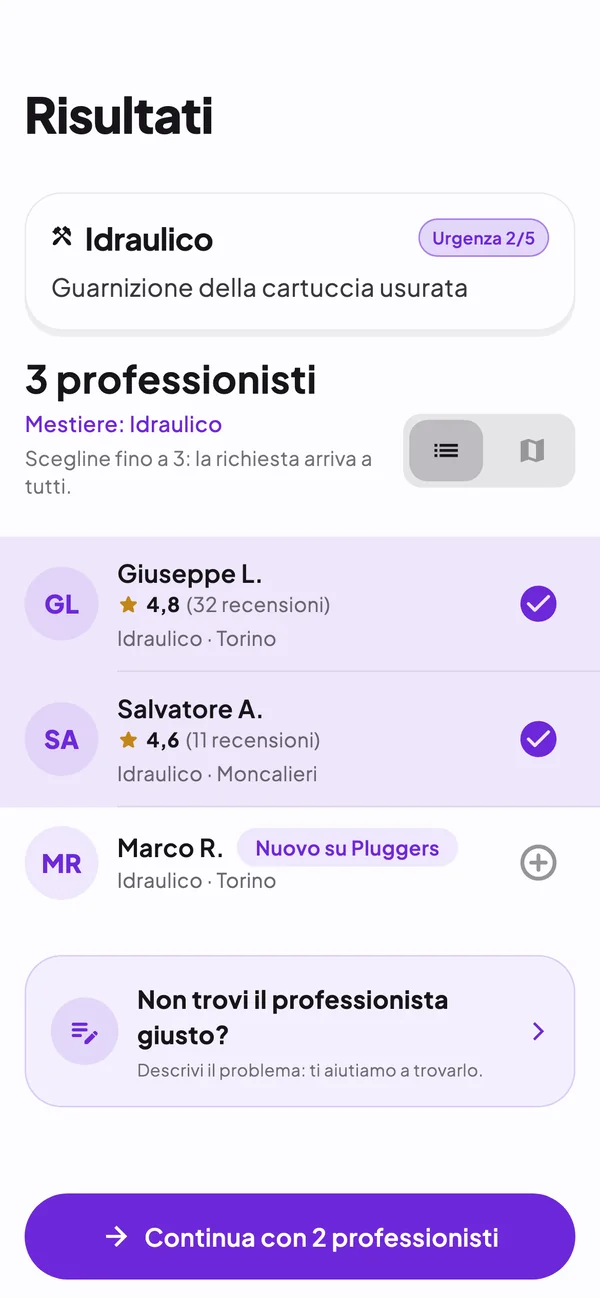
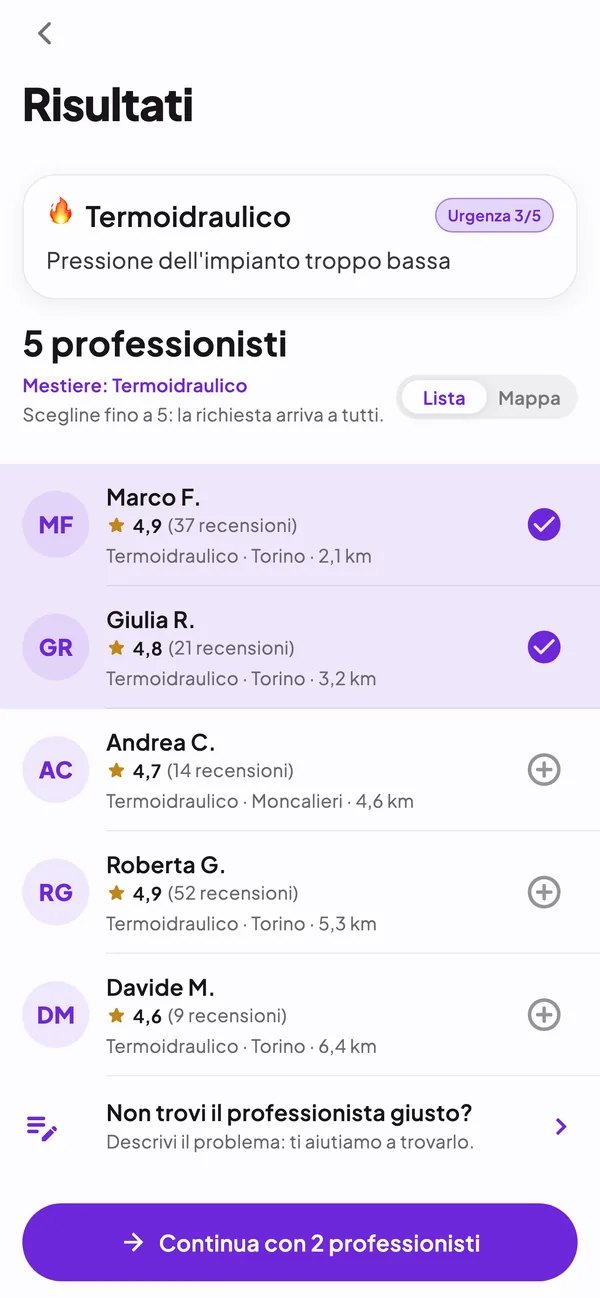
Schermate nuove nelle guide e testi allineati all'app (#72)
Sostituite le 3 schermate della home e le 14 delle guide con quelle
aggiornate (caldaia, cinque professionisti, novembre, quattro voci nel
preventivo, agenda a settimana, documento d'identità).

Aggiornati testi e alt che descrivevano le immagini vecchie. Il raggio
d'azione passa da 1-100 a 1-200 km, come nell'app e nel database.

diff --git a/app/(site)/clienti/page.tsx b/app/(site)/clienti/page.tsx
@@ -28,43 +28,43 @@ export const metadata: Metadata = pageMetadata({
 const STEPS: GuideStep[] = [
   {
     id: "racconta", short: "Il problema", src: `${G}/01.webp`,
-    alt: "Schermata iniziale: campo «Di cosa hai bisogno?» con la descrizione di un rubinetto che perde, una foto allegata e il bottone «Trova professionisti».",
+    alt: "Schermata iniziale: campo «Di cosa hai bisogno?» con la descrizione di una caldaia che non parte, una foto allegata e il bottone «Trova professionisti».",
     title: "Scrivi cosa succede e fai una foto",
-    text: "Scrivilo come lo diresti a un amico: «il rubinetto della cucina perde dalla base». Non serve sapere chi chiamare.",
+    text: "Scrivilo come lo diresti a un amico: «da stamattina la caldaia non parte e i termosifoni sono freddi». Non serve sapere chi chiamare.",
     points: ["Scrivi nel campo «Di cosa hai bisogno?»", "Aggiungi una foto con la fotocamera", "Tocca «Trova professionisti»"],
     tip: "Fotografa il guasto da vicino e poi da un passo indietro: così si capisce anche dove si trova.",
   },
   {
     id: "domande", short: "Le domande", src: `${G}/02.webp`,
-    alt: "Schermata «Capiamo il problema»: la domanda «Da dove esce l'acqua?» con tre risposte da toccare, «Altro» e «Non lo so».",
+    alt: "Schermata «Capiamo il problema»: la domanda «Sul display della caldaia vedi un codice di errore o una spia accesa?» con tre risposte da toccare, «Altro» e «Non lo so».",
     title: "Rispondi a due o tre domande",
     text: "L'intelligenza artificiale chiede quello che le serve per capire il guasto. Le risposte sono già scritte, basta toccare quella giusta.",
     points: ["Tocca la risposta che corrisponde a quello che vedi", "Se non sei sicuro, scegli «Non lo so»"],
   },
   {
     id: "diagnosi", short: "Il riepilogo", src: `${G}/03.webp`,
-    alt: "Schermata «Cosa abbiamo capito»: chi serve, Idraulico, urgenza 2 su 5, la spiegazione dell'intelligenza artificiale e le cause più probabili.",
+    alt: "Schermata «Cosa abbiamo capito»: chi serve, Termoidraulico, urgenza 3 su 5, la spiegazione dell'intelligenza artificiale e le cause più probabili.",
     title: "Controlla cosa ha capito Pluggers",
     text: "Prima di cercare vedi il riepilogo: quale professionista serve, quanto è urgente e le cause più probabili.",
     points: ["Il mestiere, per esempio idraulico", "L'urgenza, da 1 a 5", "Se il riepilogo è sbagliato, tocca «Non è questo il problema» e correggi"],
   },
   {
     id: "scegli", short: "I professionisti", src: `${G}/04.webp`,
-    alt: "Schermata «Risultati»: tre idraulici con valutazione, numero di recensioni e zona, due selezionati, e il bottone «Continua con 2 professionisti».",
+    alt: "Schermata «Risultati»: cinque termoidraulici con valutazione, numero di recensioni e zona, due selezionati, e il bottone «Continua con 2 professionisti».",
     title: "Scegli fino a cinque professionisti",
     text: "Vedi chi fa quel mestiere vicino a te, con le recensioni dei clienti per cui ha già lavorato. La richiesta arriva a tutti quelli che scegli.",
     points: ["Nome, valutazione e numero di recensioni", "La zona in cui lavora", "Puoi guardarli anche sulla mappa"],
   },
   {
     id: "giorno", short: "Il giorno", src: `${G}/05.webp`,
-    alt: "Schermata «Prenota»: il calendario di ottobre con i giorni disponibili cerchiati in viola e il bottone «Richiedi stima».",
+    alt: "Schermata «Prenota»: il calendario di novembre con i giorni disponibili cerchiati in viola e il bottone «Invia la richiesta».",
     title: "Scegli il giorno",
     text: "Seleziona uno dei giorni cerchiati in viola: sono quelli disponibili. Il professionista ti proporrà un orario in chat, che potrai valutare prima di confermare l'appuntamento.",
-    points: ["Tocca il giorno che preferisci", "Tocca «Richiedi stima»"],
+    points: ["Tocca il giorno che preferisci", "Tocca «Invia la richiesta»"],
   },
   {
     id: "stima", short: "La stima", src: `${G}/06.webp`,
-    alt: "Chat con il professionista: la foto del rubinetto, un messaggio e la scheda «Stima» con il lavoro previsto, i materiali e i bottoni «Accetta» e «Rifiuta».",
+    alt: "Chat con il professionista: il tuo messaggio, la risposta del professionista e la scheda «Stima» di circa € 120 con il lavoro previsto, i materiali e i bottoni «Accetta» e «Rifiuta».",
     title: "Ricevi la stima in chat",
     text: "Il professionista legge la scheda del problema preparata dall'intelligenza artificiale. Poi ti scrive quanto può costare il lavoro. Se chiede un Costo Chiamata, cioè la cifra per il sopralluogo, lo trovi all'interno della stima.",
     points: ["La stima è indicativa: il prezzo esatto è nel preventivo, dopo il sopralluogo", "Tocca «Accetta» e l'appuntamento è confermato: le richieste agli altri professionisti si chiudono", "Tocca «Rifiuta» e non devi fare niente"],
@@ -72,7 +72,7 @@ const STEPS: GuideStep[] = [
   },
   {
     id: "preventivo", short: "Il preventivo", src: `${G}/07.webp`,
-    alt: "Schermata «Preventivo»: tre voci con il loro prezzo, imponibile, IVA 22% e totale, e i bottoni «Apri» e «Scarica» per il PDF.",
+    alt: "Schermata «Documento»: il preventivo con quattro voci e il loro prezzo, imponibile, IVA 22% e totale, e i bottoni «Apri» e «Scarica» per il PDF.",
     title: "Dopo il sopralluogo, il preventivo",
     text: "Il professionista ti manda il preventivo in chat. Ogni voce ha il suo prezzo, poi trovi imponibile, IVA e totale.",
     points: ["Toccalo per vedere il dettaglio e aprire o scaricare il PDF", "Tocca «Accetta» o «Rifiuta» sulla scheda in chat", "Se durante il lavoro il prezzo cambia, ricevi un preventivo aggiornato con motivo e foto. Decidi tu se accettarlo"],
@@ -80,7 +80,7 @@ const STEPS: GuideStep[] = [
   },
   {
     id: "intervento", short: "L'intervento", src: `${G}/08.webp`,
-    alt: "Schermata «Dettaglio intervento»: il professionista, lo stato con l'invito a inquadrare il QR, quando e dove, il problema, la stima e il bottone «Scansiona QR».",
+    alt: "Schermata «Dettaglio intervento»: il professionista, lo stato con l'invito a inquadrare il QR, quando e dove, il problema, il Costo Chiamata, il preventivo e il bottone «Scansiona QR».",
     title: "Il giorno dell'intervento",
     text: "Nella scheda dell'appuntamento trovi data, indirizzo, problema e prezzo concordato. Il QR si usa due volte: quando il lavoro inizia e quando finisce.",
     points: ["All'inizio tocca «Scansiona QR» e inquadra il codice sul telefono del professionista", "A lavoro finito inquadra il QR di fine lavoro", "Poi puoi lasciare una recensione"],

diff --git a/app/(site)/professionisti/page.tsx b/app/(site)/professionisti/page.tsx
@@ -30,7 +30,7 @@ const G = "/guida/professionisti";
 const STEPS: GuideStep[] = [
   {
     id: "mestieri", short: "Mestieri", src: `${G}/01.webp`,
-    alt: "Profilo professionista, passo 1 di 5: «Di cosa ti occupi?» con l'elenco dei mestieri e la descrizione di ciascuno.",
+    alt: "Profilo professionista, passo 1 di 5: «I tuoi mestieri» con l'elenco dei mestieri e la descrizione di ciascuno.",
     title: "Scegli i tuoi mestieri",
     text: "Indica tutti i mestieri che fai. Per ognuno i lavori più comuni sono già selezionati.",
     points: ["Puoi sceglierne più di uno", "Togli i lavori che non fai", "Aggiungi le specializzazioni"],
@@ -38,10 +38,10 @@ const STEPS: GuideStep[] = [
   },
   {
     id: "raggio", short: "Zona", src: `${G}/02.webp`,
-    alt: "Profilo professionista: «Fin dove ti sposti» con il cursore del raggio d'azione a 20 km e la sezione «Dove lavori».",
+    alt: "Profilo professionista: «Fin dove ti sposti» con il cursore del raggio d'azione a 20 km, la sezione «Dove lavori» e «Documento d'identità» con i riquadri per fronte e retro.",
     title: "Decidi fin dove ti sposti",
-    text: "Inserisci l'indirizzo da cui parti e il raggio, da 1 a 100 km. Ti trovano solo i clienti entro quella distanza.",
-    points: ["Il raggio si imposta con il cursore", "Le città in cui lavori, anche più di una", "La descrizione dell'attività e la partita IVA"],
+    text: "Inserisci l'indirizzo da cui parti e il raggio, da 1 a 200 km. Ti trovano solo i clienti entro quella distanza.",
+    points: ["Il raggio si imposta con il cursore", "Le città in cui lavori, anche più di una", "La descrizione dell'attività e la partita IVA", "Il documento d'identità, fronte e retro: serve solo a noi, i clienti non lo vedono"],
   },
   {
     id: "disponibilita", short: "Orari", src: `${G}/03.webp`,
@@ -52,7 +52,7 @@ const STEPS: GuideStep[] = [
   },
   {
     id: "richieste", short: "Richieste", src: `${G}/04.webp`,
-    alt: "Sezione «Richieste»: le schede «Da decidere» e «Da preventivare», i filtri per ordinare e per giorno e tre richieste con il problema, giorno e orario, la distanza e la cifra indicativa.",
+    alt: "Sezione «Richieste»: le schede «Nuove» e «In corso», il bottone «Ordina e filtra» e tre richieste con il problema, il giorno, la distanza, la cifra indicativa e il bottone «Accetta e invia la stima».",
     title: "Ricevi le richieste",
     text: "Le richieste arrivano dai clienti della tua zona che ti hanno scelto. Ognuna ha giorno, mestiere, problema, distanza da te e una cifra di riferimento calcolata dall'app.",
     points: ["Apri quelle che ti interessano", "Rifiuta le altre"],
@@ -68,10 +68,10 @@ const STEPS: GuideStep[] = [
   },
   {
     id: "agenda", short: "Agenda", src: `${G}/06.webp`,
-    alt: "Agenda del professionista: il calendario di ottobre, i prossimi interventi con lo stato e il bottone «Appuntamento cliente esterno».",
+    alt: "Agenda del professionista in vista settimanale, con la scelta tra «Giorno», «Settimana» e «Mese», due interventi dal 5 al 7 novembre e il bottone «Appuntamento cliente esterno».",
     title: "Gli appuntamenti in agenda",
     text: "Gli interventi confermati entrano in agenda da soli. Puoi segnare anche gli appuntamenti dei tuoi clienti di sempre, anche se non ti hanno contattato da Pluggers: così hai tutto in un'unica app.",
-    points: ["Il mese a colpo d'occhio e i prossimi interventi", "Lo stato di ogni appuntamento"],
+    points: ["Giorno, settimana o mese: scegli la vista che ti serve", "Lo stato di ogni appuntamento"],
     tip: "I clienti che non usano Pluggers li aggiungi con «Appuntamento cliente esterno».",
   },
 ];
@@ -82,7 +82,7 @@ const LEDE =
 
 const BENEFITS = [
   { title: "Problema e distanza", text: "Ogni richiesta ha mestiere, scheda del problema e km da te. Se è urgente, lo vedi subito." },
-  { title: "Raggio da 1 a 100 km", text: "Lo imposti dal tuo indirizzo. I clienti fuori dal raggio non ti vedono." },
+  { title: "Raggio da 1 a 200 km", text: "Lo imposti dal tuo indirizzo. I clienti fuori dal raggio non ti vedono." },
   { title: "Prezzi tuoi", text: "Costo Chiamata, stima e preventivo li scrivi tu. L'app ti suggerisce una cifra, puoi cambiarla." },
   GESTIONALE,
 ];

diff --git a/lib/home.ts b/lib/home.ts
@@ -45,19 +45,19 @@ export const HOW = {
       title: "Racconta il problema",
       text: "Scrivi due righe e aggiungi una foto. Se serve, l'intelligenza artificiale ti fa qualche domanda senza termini tecnici.",
       src: "/screens/step-describe.png",
-      alt: "Schermata iniziale dell'app: campo «Di cosa hai bisogno?» con la descrizione di un rubinetto che perde, una foto allegata e il bottone «Trova professionisti».",
+      alt: "Schermata iniziale dell'app: campo «Di cosa hai bisogno?» con la descrizione di una caldaia che non parte, una foto allegata e il bottone «Trova professionisti».",
     },
     {
       title: "Pluggers capisce di che si tratta",
       text: "Riconosce il mestiere, l'urgenza e le cause più probabili, poi mostra i professionisti della tua zona. Scegli chi contattare, fino a cinque, e il giorno tra quelli disponibili: l'orario lo propone il professionista.",
       src: "/screens/step-triage.png",
-      alt: "Schermata «Cosa abbiamo capito»: chi serve (Idraulico), urgenza 2 su 5, cause probabili e bottone «Cerca un professionista».",
+      alt: "Schermata «Cosa abbiamo capito»: chi serve (Termoidraulico), urgenza 3 su 5, cause probabili e bottone «Cerca un professionista».",
     },
     {
       title: "Prima stima, poi preventivo, e il QR a inizio e fine lavoro",
       text: "Il professionista ti manda in chat una stima e, se lo chiede, il Costo Chiamata. Dopo il sopralluogo arriva il preventivo. Il QR si scansiona all'inizio e alla fine del lavoro, poi lasci la recensione.",
       src: "/screens/step-estimate.png",
-      alt: "Chat con il professionista: la foto del guasto, un messaggio e una stima di 85 euro con i bottoni Accetta e Rifiuta.",
+      alt: "Chat con il professionista: il messaggio del cliente, la risposta del professionista e una stima di circa € 120 con i bottoni Accetta e Rifiuta.",
     },
   ],
 };
@@ -89,7 +89,7 @@ export const PROS = {
     },
     {
       title: "Il raggio d'azione lo scegli tu",
-      text: "Da 1 a 100 km dal tuo indirizzo operativo: ti vedono solo i clienti dentro quel raggio.",
+      text: "Da 1 a 200 km dal tuo indirizzo operativo: ti vedono solo i clienti dentro quel raggio.",
     },
     {
       title: "Costo Chiamata e preventivo li decidi tu",

diff --git a/lib/faq.ts b/lib/faq.ts
@@ -110,7 +110,7 @@ const PRO: FaqItem[] = [
   },
   {
     q: "Come scelgo mestieri e zona?",
-    a: "Scegli tutti i mestieri che fai: i clienti ti trovano così. Per ogni mestiere i lavori più comuni sono già selezionati e togli quelli che non fai. Poi indichi l'indirizzo da cui parti e fin dove ti sposti, da 1 a 100 km, e le città in cui accetti interventi. Ricevi solo richieste dentro quella distanza.",
+    a: "Scegli tutti i mestieri che fai: i clienti ti trovano così. Per ogni mestiere i lavori più comuni sono già selezionati e togli quelli che non fai. Poi indichi l'indirizzo da cui parti e fin dove ti sposti, da 1 a 200 km, e le città in cui accetti interventi. Ricevi solo richieste dentro quella distanza.",
   },
   {
     q: "Come ricevo le richieste?",

diff --git a/lib/trades.ts b/lib/trades.ts
@@ -8,7 +8,7 @@
  * trade, urgency 1–5 and probable causes, and may be wrong; at urgency 5 for
  * gas, sparks, burning smell, smoke or water on electrics it shows safety
  * instructions, and the app always offers "Chiama il 112"; professionals pick a
- * radius of 1–100 km and are listed nearest first; up to three per request, the
+ * radius of 1–200 km and are listed nearest first; up to five per request, the
  * first to confirm gets the job; the customer picks the day, the professional
  * proposes the time; the professional may ask a Costo Chiamata, shown before the
  * visit, accepted or refused by the customer, paid to them, deducted if the job
